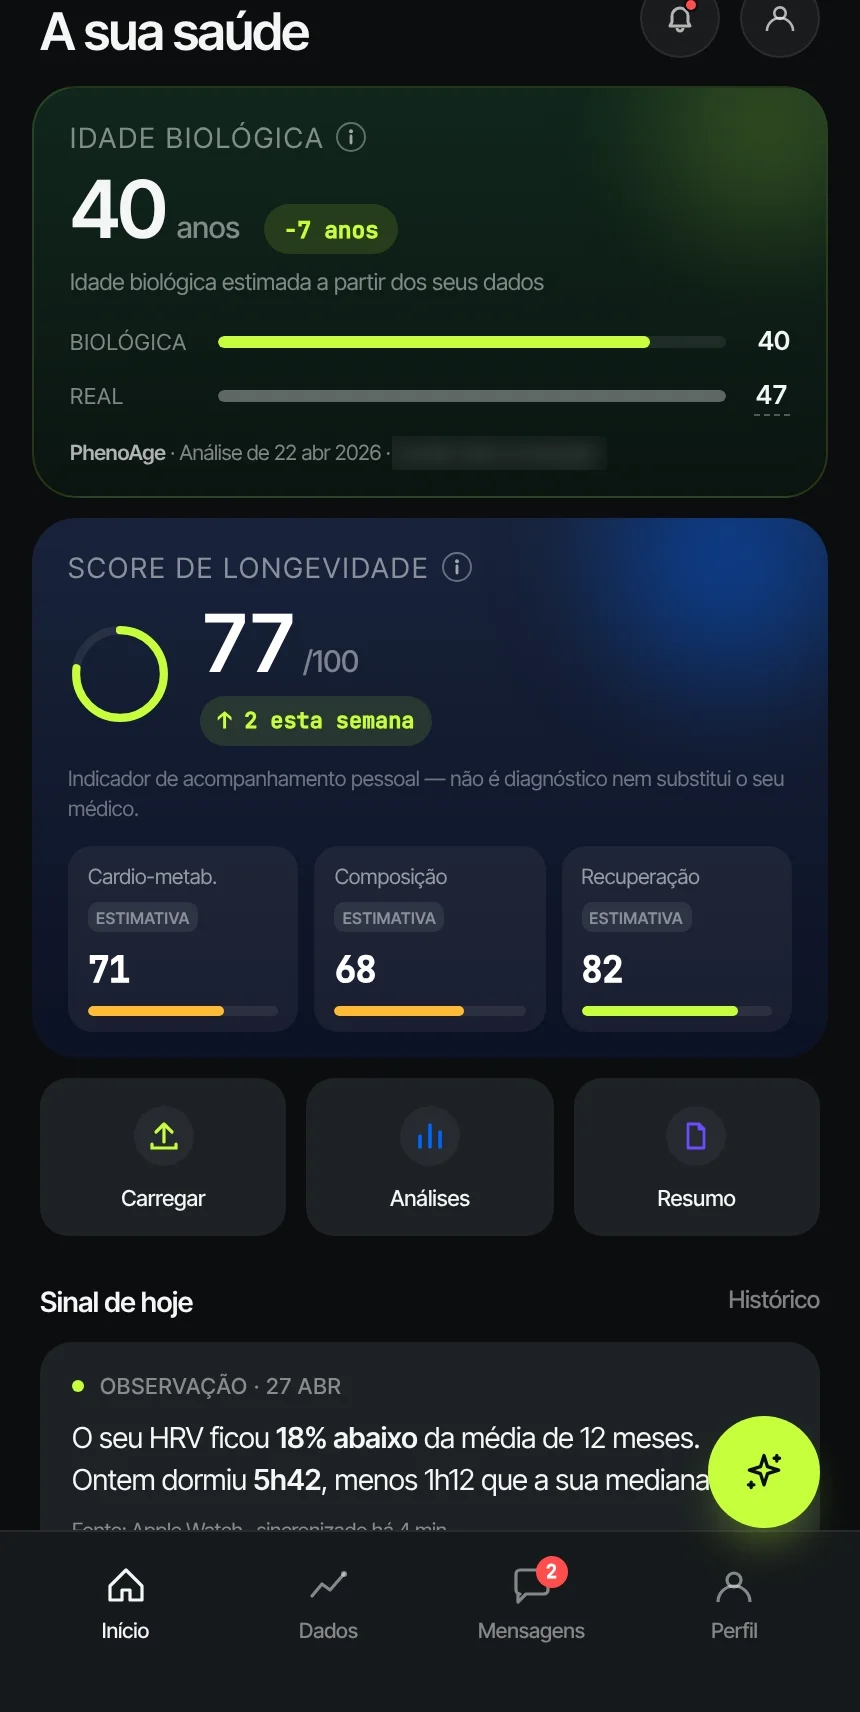
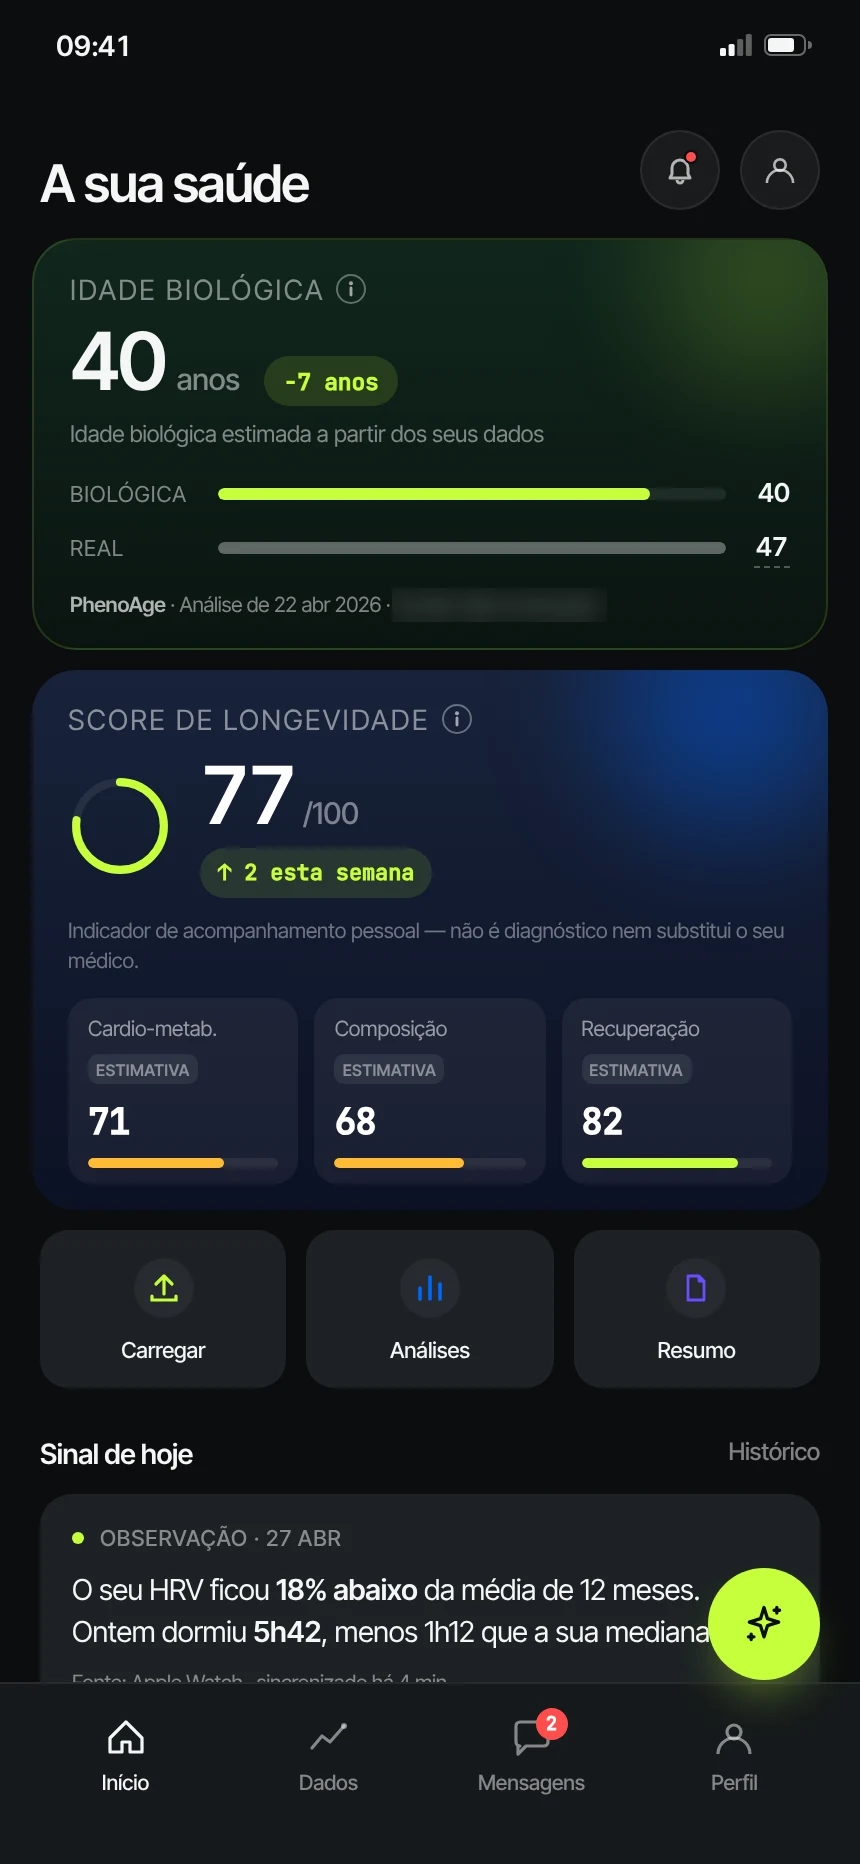
Moldura de iPhone realista (Dynamic Island, botões, indicador) com o ecrã real inteiro
Claude-Session: https://claude.ai/code/session_01Y1Ngz5fQ3xh7pQYQergTWd

diff --git a/meu-site/src/components/PhoneApp.jsx b/meu-site/src/components/PhoneApp.jsx
@@ -1,11 +1,26 @@
 import appHome from "../assets/app/inicio.webp";
 
-// Ecrã real da app do utente dentro de uma moldura de telemóvel.
+// Ecrã real da app do utente dentro de um iPhone (ecrã 860×1864, proporção real).
 export default function PhoneApp({ src = appHome }) {
   return (
-    <div className="mx-auto w-[15.5rem] rounded-[2.6rem] border-[7px] border-brand-dark bg-brand-dark shadow-xl md:w-[17rem]">
-      <div className="overflow-hidden rounded-[2.1rem]">
-        <img src={src} alt="" loading="lazy" className="block w-full" />
+    <div className="relative mx-auto w-[15rem] md:w-[17rem]">
+      {/* botões laterais */}
+      <span className="absolute -left-[3px] top-[15%] h-[3.5%] w-[3px] rounded-l bg-[#2b2b2e]" />
+      <span className="absolute -left-[3px] top-[22%] h-[6.5%] w-[3px] rounded-l bg-[#2b2b2e]" />
+      <span className="absolute -left-[3px] top-[30.5%] h-[6.5%] w-[3px] rounded-l bg-[#2b2b2e]" />
+      <span className="absolute -right-[3px] top-[26%] h-[10%] w-[3px] rounded-r bg-[#2b2b2e]" />
+
+      {/* chassis */}
+      <div className="rounded-[3rem] bg-[#2b2b2e] p-[2px] shadow-2xl shadow-black/30 md:rounded-[3.3rem]">
+        <div className="rounded-[2.9rem] bg-black p-[9px] md:rounded-[3.2rem] md:p-[10px]">
+          <div className="relative overflow-hidden rounded-[2.3rem] bg-[#0b0d0f] md:rounded-[2.5rem]" style={{ aspectRatio: "860 / 1864" }}>
+            <img src={src} alt="" loading="lazy" className="block h-full w-full object-cover" />
+            {/* Dynamic Island */}
+            <span className="absolute left-1/2 top-[1.3%] h-[2.9%] w-[27%] -translate-x-1/2 rounded-full bg-black" />
+            {/* indicador de início */}
+            <span className="absolute bottom-[0.9%] left-1/2 h-[0.45%] w-[34%] -translate-x-1/2 rounded-full bg-white/80" />
+          </div>
+        </div>
       </div>
     </div>
   );
